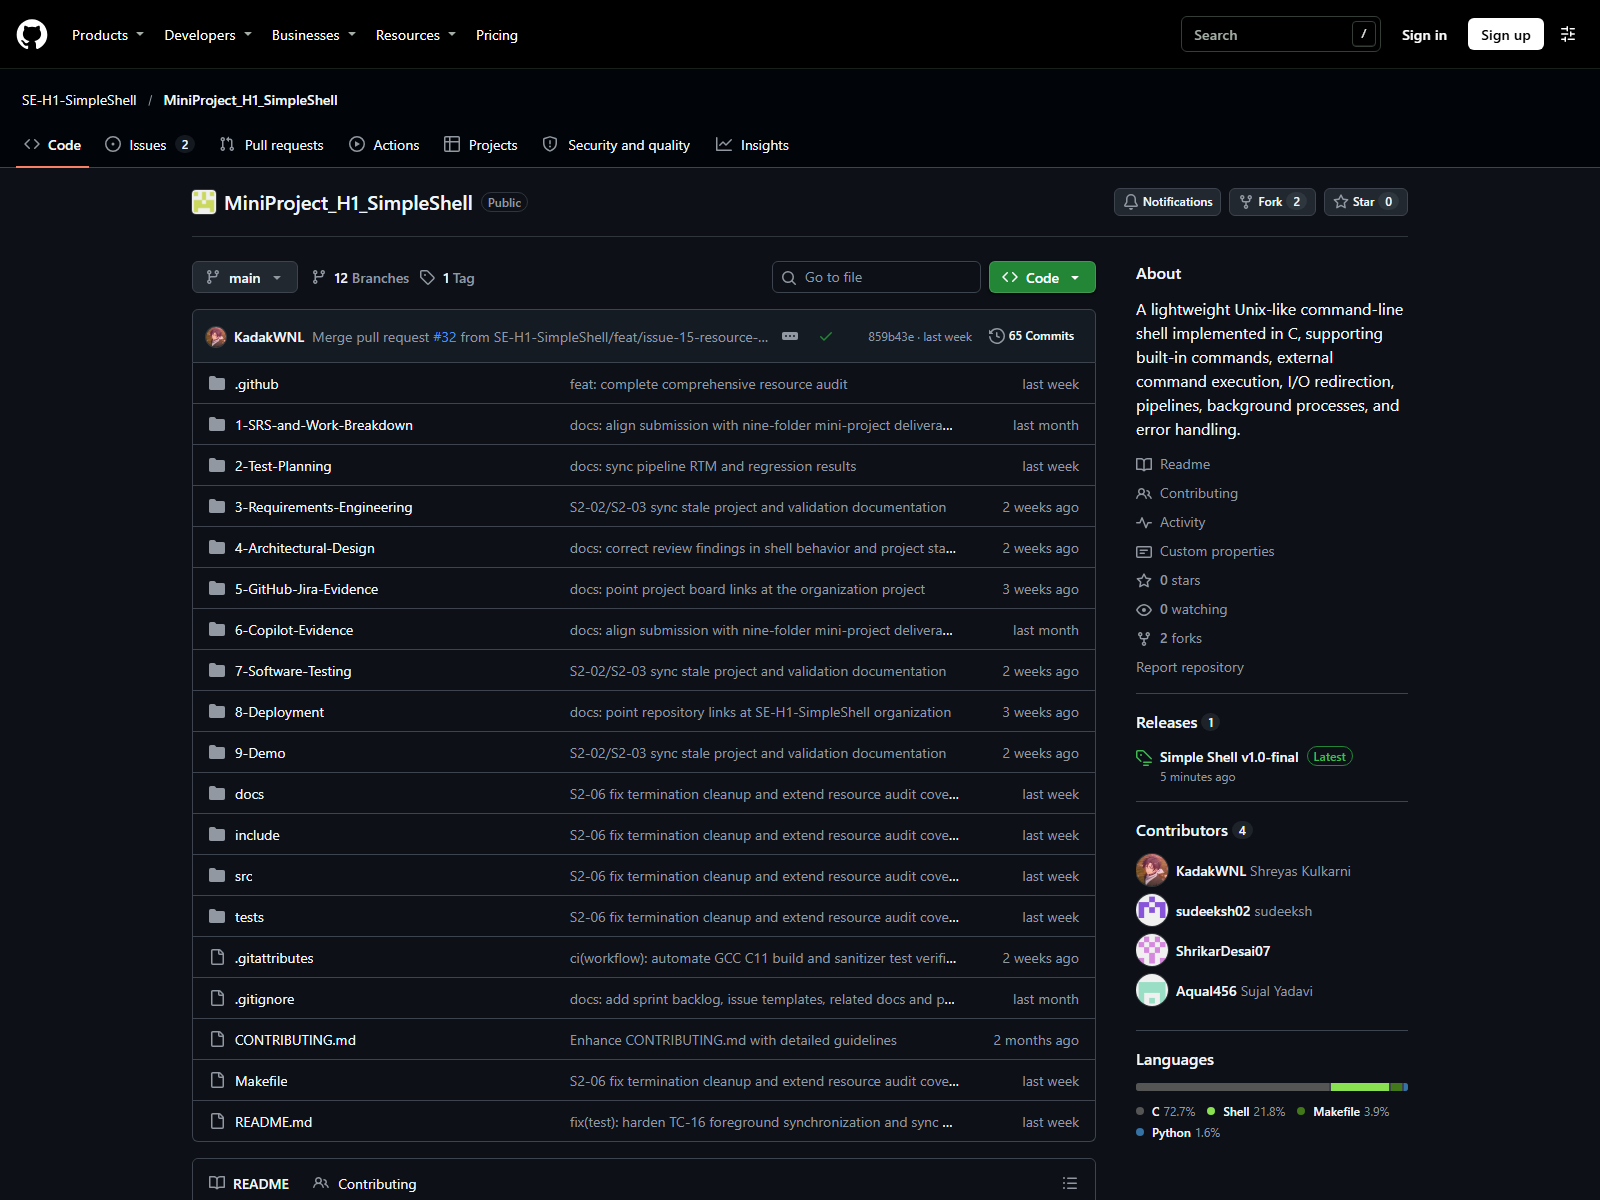
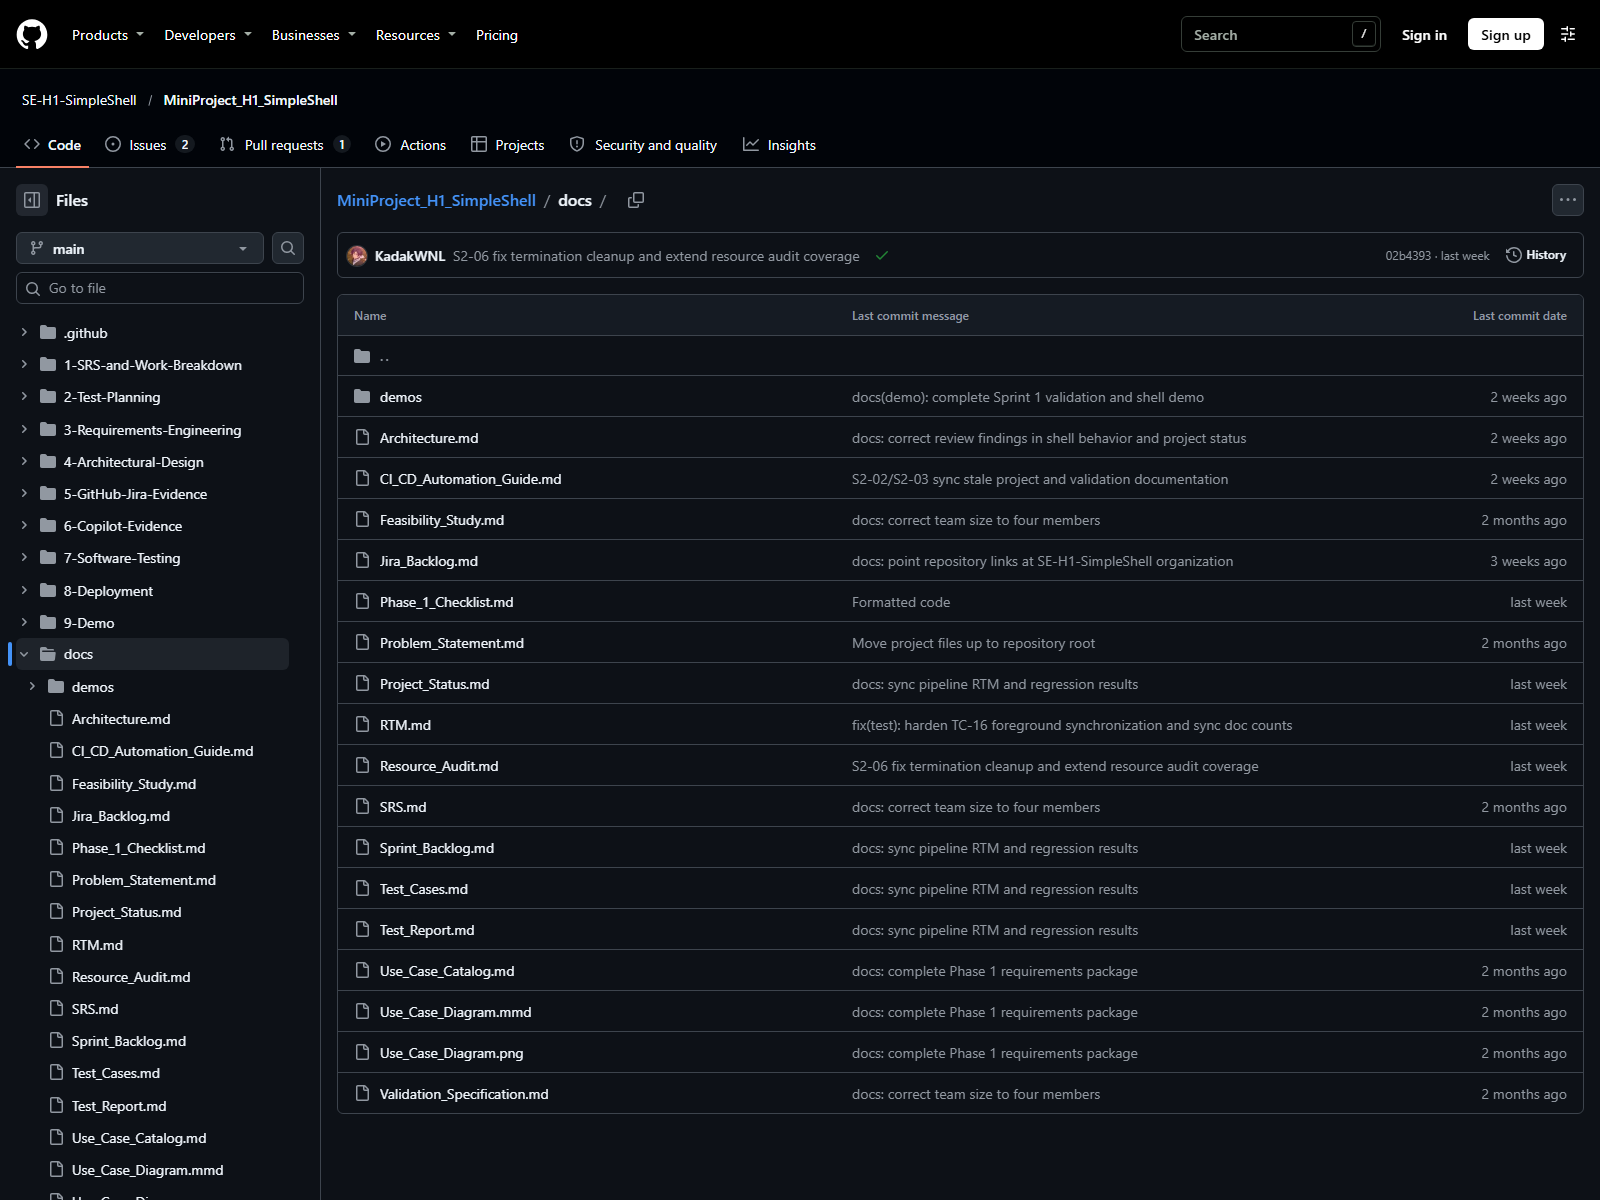
docs(evidence): capture the documentation folder structure

diff --git a/5-GitHub-Jira-Evidence/Evidence_Index.md b/5-GitHub-Jira-Evidence/Evidence_Index.md
@@ -5,7 +5,7 @@ Captured on 12 November 2026 from the public repository and organization project
 | Evidence | Status | File / link |
 |---|---|---|
 | Team repository overview | Captured | [`screenshots/01_Team_Repository.png`](screenshots/01_Team_Repository.png) — https://github.com/SE-H1-SimpleShell/MiniProject_H1_SimpleShell |
-| Repository folder structure | Captured | [`screenshots/02_Repository_Structure.png`](screenshots/02_Repository_Structure.png) — nine deliverable folders plus `docs/`, `include/`, `src/`, `tests/` |
+| Repository and documentation structure | Captured | [`screenshots/02_Repository_Structure.png`](screenshots/02_Repository_Structure.png) — nine deliverable folders plus the canonical `docs/` files |
 | Commit history | Captured | [`screenshots/03_Commit_History.png`](screenshots/03_Commit_History.png) — https://github.com/SE-H1-SimpleShell/MiniProject_H1_SimpleShell/commits/main |
 | GitHub Project table with estimates, iterations, and linked PRs | Captured | [`screenshots/04_GitHub_Project_Table.png`](screenshots/04_GitHub_Project_Table.png) — Project #2, table view |
 | GitHub Project board | Captured | [`screenshots/05_GitHub_Project_Board.png`](screenshots/05_GitHub_Project_Board.png) — Backlog / Ready / In progress / In review / Done |
